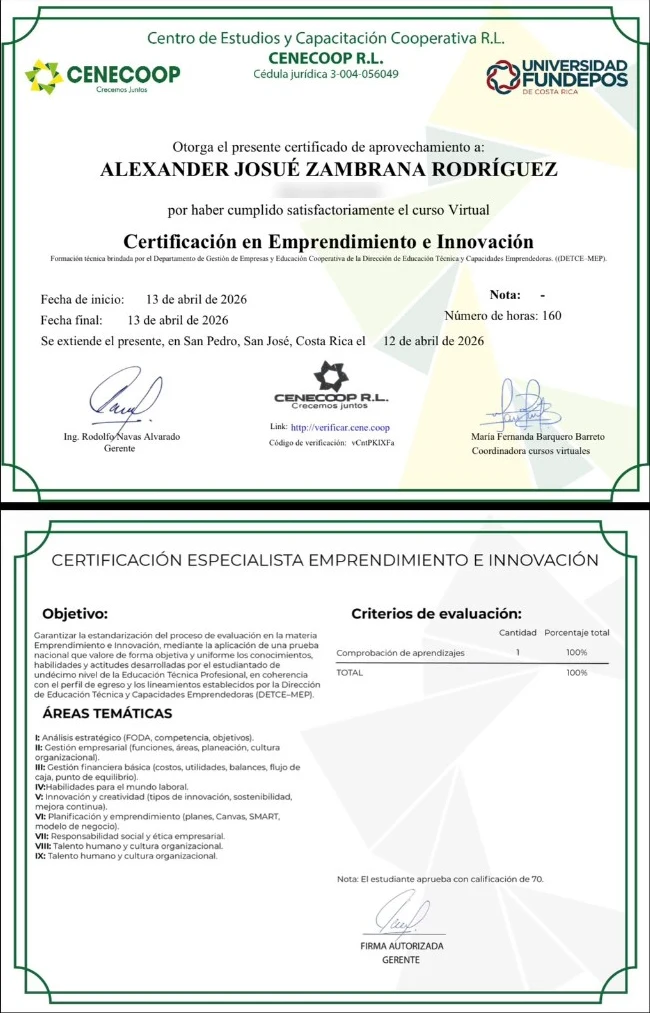
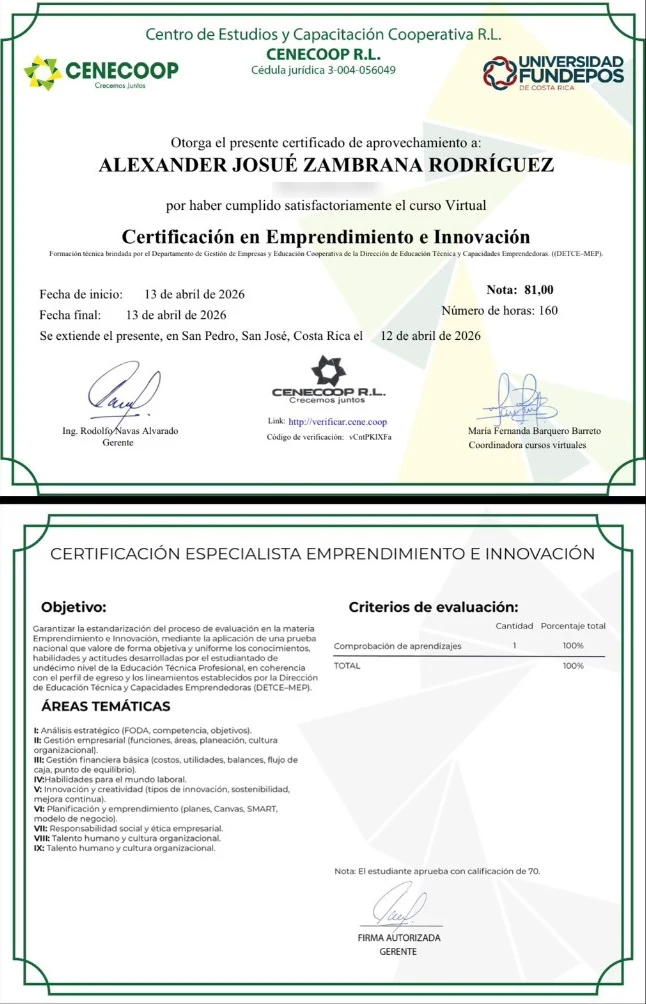
Certificado CENECOOP con nota oficial

Changed region(s): [[0.0, 0.0, 1.0, 1.0], [0.5263, 0.5867, 0.9288, 0.6793], [0.0, 0.988, 0.031, 1.0]]

diff --git a/src/data/portfolio.js b/src/data/portfolio.js
@@ -84,7 +84,7 @@ export const certificates = [
     title: 'Certificación en Emprendimiento e Innovación',
     issuer: 'CENECOOP R.L. · DETCE-MEP',
     date: 'Abril 2026',
-    detail: '160 horas · Análisis estratégico, finanzas, planeación e innovación',
+    detail: '160 horas · Nota 81 · Análisis estratégico, finanzas, planeación e innovación',
     image: '/images/certs/cenecoop.webp'
   }
 ];
